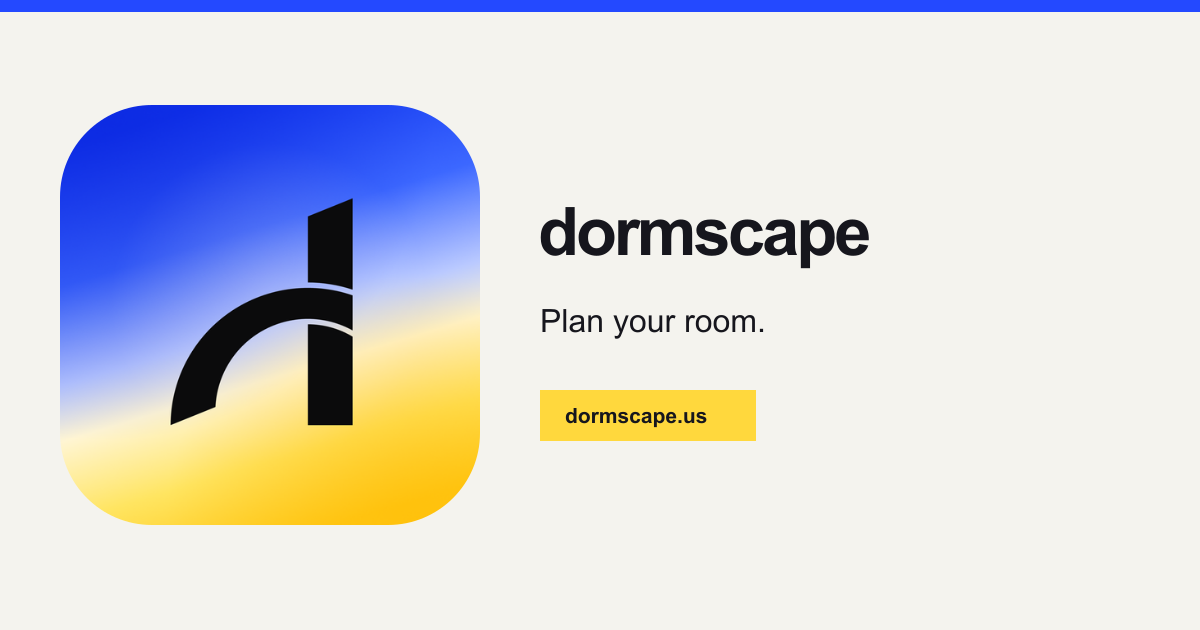
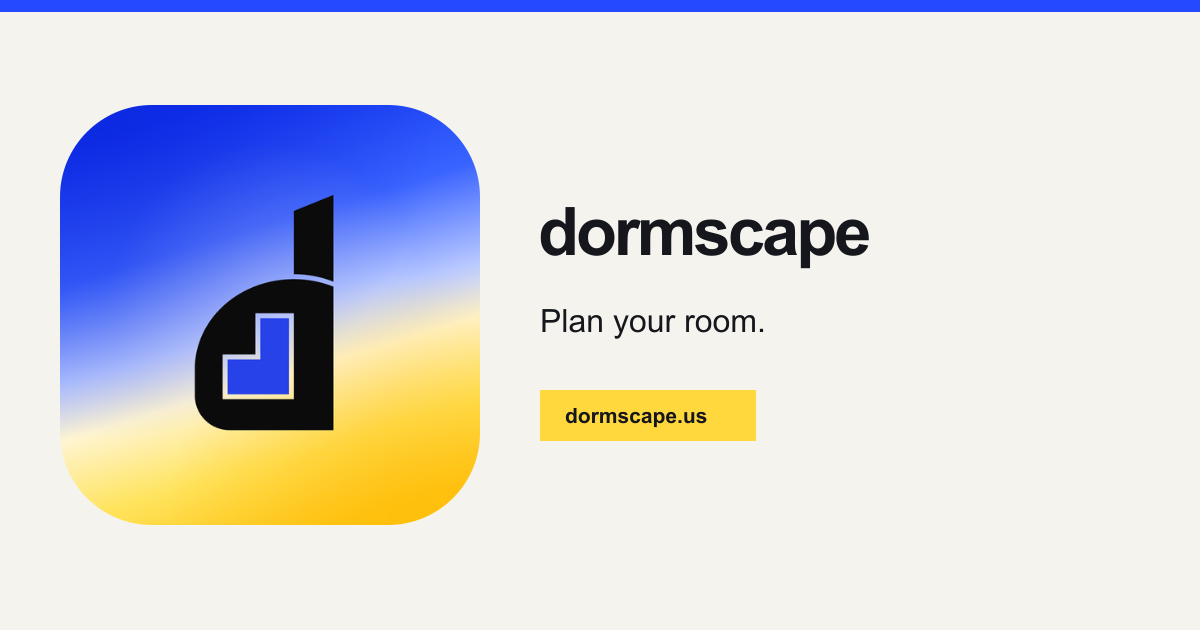
Brand: the room mark everywhere
New logo (the d with a blue room) replaces the door mark:
- favicon, app and Apple icons, PWA icons, share card, and the export mark
  rebuilt from public/brand/dormscape-source.png by build-brand-assets.mjs
- mono SVG marks traced from the artwork (within ~1% of its pixels)
- loader: the room fills from the floor up instead of the door swinging
- asset cache keys bumped to ?v=room-mark

Changed region(s): [[0.1233, 0.3016, 0.3083, 0.6937]]

diff --git a/components/site/BrandLoader.tsx b/components/site/BrandLoader.tsx
@@ -1,36 +1,33 @@
 import s from "./BrandLoader.module.css";
 
-// The mark's three pieces, each in its own box (design-handoff/v2/logo, Loader.dc.html).
-const ARCH = "M885 35.8A668.9 668.9 0 0 0 0 634.5L0 667L216.6 579A451.9 451.9 0 0 1 885 204.7Z";
-const TOP = "M216 0L0 87L0 407.8A696.6 696.6 0 0 1 216 442.5Z";
-const DOOR = "M0 -0.8L0 490L216 490L216 59A423.9 423.9 0 0 0 0 -0.8Z";
+// The room mark (public/brand/dormscape-mark-ink.svg): the "d" with an L-shaped
+// room cut out of its bowl, and the room itself in its own box so it can fill.
+const SHELL =
+  "M241 39L337 0V211.4A252 237 0 0 0 241 193.5Z" +
+  "M337 223.2A241 226 0 0 0 0 430.5V485.5A88 88 0 0 0 88 573.5H337ZM147 288.5H241V497.5H67V388.5H147Z";
+const ROOM = "M159.5 301H228.5V485H79.5V401H159.5Z";
 
-const piece = (cls: string, box: string, d: string) => (
-  <span className={cls}>
-    <svg viewBox={box} preserveAspectRatio="none">
-      <path d={d} />
-    </svg>
-  </span>
-);
-
-/** The mark alone, its door swinging (MOTION.md · Loader). */
+/** The mark alone, its room filling. */
 function Mark() {
   return (
     <span className={s.mark} aria-hidden="true">
-      {piece(`${s.pc} ${s.ghost}`, "0 0 886 668", ARCH)}
-      {piece(`${s.pc} ${s.arch}`, "0 0 886 668", ARCH)}
-      {piece(`${s.pc} ${s.top}`, "0 0 217 444", TOP)}
-      {piece(`${s.pc} ${s.door}`, "0 0 217 491", DOOR)}
+      <svg viewBox="0 0 337 573.5">
+        <path d={SHELL} fillRule="evenodd" />
+      </svg>
+      <span className={s.room}>
+        <svg viewBox="79.5 301 149 184" preserveAspectRatio="none">
+          <path d={ROOM} />
+        </svg>
+      </span>
     </span>
   );
 }
 
 /**
- * The sitewide loader, "the door swings": the mark is a door seen from above,
- * the way a floor plan draws it. The curve folds in toward its hinge at the
- * upright and swings back out on a 2.6 s loop, over a faint ghost of its path,
- * with a "Loading" caption whose dot brightens once per loop. Still in reduced
- * motion and with Motion off.
+ * The sitewide loader, "the room fills": the blue room inside the mark fills
+ * from the floor up and clears on a 2.6 s loop, with a "Loading" caption whose
+ * dot brightens once per loop. Still (the full mark) in reduced motion and with
+ * Motion off.
  *
  * Sizes: "route" (88 px, full-screen loading), "panel" (48 px) and "inline"
  * (18 px, inside a button beside its own text; decorative there). `label` is

diff --git a/components/site/BrandLoader.module.css b/components/site/BrandLoader.module.css
@@ -1,4 +1,4 @@
-/* components/site/BrandLoader: "the door swings" (design-handoff/v2 Loader.dc.html, MOTION.md) */
+/* components/site/BrandLoader: "the room fills" (MOTION.md loop timing) */
 .loader {
   --s: 88px;
   display: flex;
@@ -19,40 +19,25 @@
   vertical-align: middle;
 }
 
+/* Same height as the old door mark (--s × 1.245), in the room mark's 337 × 573.5 box. */
 .mark {
   position: relative;
   display: block;
   flex: none;
-  width: var(--s);
-  aspect-ratio: 888 / 1106;
+  width: calc(var(--s) * 0.7316);
+  height: calc(var(--s) * 1.245);
 }
-.pc { position: absolute; display: block; }
-.pc svg { display: block; width: 100%; height: 100%; overflow: visible; }
-.pc path { fill: currentColor; }
-/* Placed in the mark's own 888 × 1106 box */
-.arch, .ghost { left: 0; top: 39.421%; width: 99.775%; height: 60.398%; }
-.ghost { opacity: 0.13; }
-.top { left: 75.338%; top: 0; width: 24.437%; height: 40.145%; }
-.door { left: 75.338%; top: 55.515%; width: 24.437%; height: 44.394%; }
+.mark svg { display: block; width: 100%; height: 100%; }
+.mark path { fill: currentColor; }
+.room { position: absolute; left: 23.591%; top: 52.485%; width: 44.214%; height: 32.084%; animation: fill 2.6s cubic-bezier(0.65, 0, 0.35, 1) infinite; }
+.mark .room path { fill: var(--ds-blue, #2449ff); }
+.loader[data-tone="dark"] .room path { fill: var(--ds-blue-on-dark, #5b7cff); }
 
-/* The right end of the curve stays on its hinge at the upright; the left end
-   folds in toward it and swings back out, like a door closing and opening in
-   plan view. The fold is a conic mask whose sweep (--sw) runs 150° → 66° → 150°. */
-@property --sw {
-  syntax: "<angle>";
-  inherits: false;
-  initial-value: 150deg;
-}
-.arch {
-  --sw: 150deg;
-  -webkit-mask-image: conic-gradient(from calc(40deg - var(--sw)) at 70% 99.4%, #000 0deg var(--sw), transparent var(--sw));
-  mask-image: conic-gradient(from calc(40deg - var(--sw)) at 70% 99.4%, #000 0deg var(--sw), transparent var(--sw));
-  animation: fold 2.6s cubic-bezier(0.65, 0, 0.35, 1) infinite;
-}
-@keyframes fold {
-  0%, 14% { --sw: 150deg; }
-  46%, 58% { --sw: 66deg; }
-  88%, 100% { --sw: 150deg; }
+/* The room fills from the floor up, holds, then clears upward; both ends are empty. */
+@keyframes fill {
+  0%, 14% { clip-path: inset(100% 0 0 0); }
+  46%, 72% { clip-path: inset(0); }
+  100% { clip-path: inset(0 0 100% 0); }
 }
 
 .caption {

diff --git a/app/plan/draw/3d/page.tsx b/app/plan/draw/3d/page.tsx
@@ -8,5 +8,5 @@ import { SITE_URL } from "@/lib/seo";
 import s from "@/components/builder/Builder.module.css";
 const title="3D Room Builder: Draw Your Dorm Room";
 const description="Build your dorm room on a 3D grid. Draw walls, place a floor, add doors and windows, then furnish your custom room in 3D. Included with dormscape Pro.";
-export const metadata:Metadata={title,description,alternates:{canonical:"/plan/draw/3d"},openGraph:{title,description,url:"/plan/draw/3d",siteName:"dormscape",type:"website",images:[{url:"/og.png?v=door-mark",width:1200,height:630,alt:"dormscape 3D Room Builder"}]},twitter:{card:"summary_large_image",title,description,images:["/og.png?v=door-mark"]}};
+export const metadata:Metadata={title,description,alternates:{canonical:"/plan/draw/3d"},openGraph:{title,description,url:"/plan/draw/3d",siteName:"dormscape",type:"website",images:[{url:"/og.png?v=room-mark",width:1200,height:630,alt:"dormscape 3D Room Builder"}]},twitter:{card:"summary_large_image",title,description,images:["/og.png?v=room-mark"]}};
 export default function Draw3DPage(){return <PageShell navOverlay navTone="dark" className={s.page}><BuilderEntry><section className={s.faq} aria-labelledby="builder-faq"><div className="ds-wrap"><p className={s.darkEyebrow}>Before you build</p><h2 id="builder-faq" className={s.faqTitle}>A few useful answers.</h2><dl className={s.faqGrid}>{BUILDER_FAQS.map(({q,a},i)=><div key={q} className={s.faqCard} data-reveal="" style={{"--i":i%2} as React.CSSProperties}><dt>{q}</dt><dd>{a}</dd></div>)}</dl><p className={s.fine}>Get the walkthrough: <Link href="/blog/build-a-dorm-room-in-3d">Build your first room in 3D</Link>. Compare <Link href="/pricing#pro">Pro features and pricing</Link>.</p></div></section></BuilderEntry><JsonLd data={{"@context":"https://schema.org","@type":"FAQPage",mainEntity:BUILDER_FAQS.map(({q,a})=>({"@type":"Question",name:q,acceptedAnswer:{"@type":"Answer",text:a}}))}}/><JsonLd data={{"@context":"https://schema.org","@type":"BreadcrumbList",itemListElement:[{ "@type":"ListItem",position:1,name:"dormscape",item:SITE_URL},{"@type":"ListItem",position:2,name:"Draw your room",item:SITE_URL+"/plan/draw"},{"@type":"ListItem",position:3,name:"3D Room Builder",item:SITE_URL+"/plan/draw/3d"}]}}/></PageShell>;}

diff --git a/lib/seo.ts b/lib/seo.ts
@@ -26,7 +26,7 @@ export function absoluteUrl(path = "/"): string {
 export const RSS_FEED = { "application/rss+xml": "/blog/rss.xml" };
 
 const OG_IMAGE = {
-  url: "/og.png?v=door-mark",
+  url: "/og.png?v=room-mark",
   width: 1200,
   height: 630,
   alt: "dormscape, the free dorm room planner",
@@ -142,7 +142,7 @@ const organization = {
   ...(SOCIAL_PROFILES.length ? { sameAs: SOCIAL_PROFILES } : {}),
   logo: {
     "@type": "ImageObject",
-    url: `${SITE_URL}/icons/icon-512.png?v=door-mark`,
+    url: `${SITE_URL}/icons/icon-512.png?v=room-mark`,
     width: 512,
     height: 512,
   },

diff --git a/public/experience/studio-scene.js b/public/experience/studio-scene.js
@@ -56,7 +56,7 @@ function shadowMesh(root,uniforms){
 }
 
 export function createStudioScene(container, options) {
-  const brandMark=new Image();brandMark.src="/brand/dormscape-mark.png?v=folded-room";
+  const brandMark=new Image();brandMark.src="/brand/dormscape-mark.png?v=room-mark";
   const renderer=new T.WebGLRenderer({antialias:true,powerPreference:"high-performance"});
   // The pixel ratio starts at the screen's (capped). While the camera or a piece moves slowly it steps down, so weak GPUs stay
   // smooth; when everything stops, the still frame goes back to the full ratio.

diff --git a/app/blog/[slug]/page.tsx b/app/blog/[slug]/page.tsx
@@ -45,7 +45,7 @@ export async function generateMetadata(props: {
       authors: ["dormscape"],
       images: [
         {
-          url: "/og.png?v=door-mark",
+          url: "/og.png?v=room-mark",
           width: 1200,
           height: 630,
           alt: "dormscape, the free AI dorm room planner",
@@ -56,7 +56,7 @@ export async function generateMetadata(props: {
       card: "summary_large_image",
       title: post.metaTitle ?? post.title,
       description: post.description,
-      images: ["/og.png?v=door-mark"],
+      images: ["/og.png?v=room-mark"],
     },
   };
 }

diff --git a/app/layout.tsx b/app/layout.tsx
@@ -60,7 +60,7 @@ export const metadata: Metadata = {
     url: "/",
     images: [
       {
-        url: "/og.png?v=door-mark",
+        url: "/og.png?v=room-mark",
         width: 1200,
         height: 630,
         alt: "dormscape, the free AI dorm room planner",
@@ -71,7 +71,7 @@ export const metadata: Metadata = {
     card: "summary_large_image",
     title: "dormscape: your dorm room, planned before move-in day",
     description: DESCRIPTION,
-    images: ["/og.png?v=door-mark"],
+    images: ["/og.png?v=room-mark"],
   },
 };
 

diff --git a/app/manifest.ts b/app/manifest.ts
@@ -11,8 +11,8 @@ export default function manifest(): MetadataRoute.Manifest {
     background_color: "#fafaf8",
     theme_color: "#fafaf8",
     icons: [
-      { src: "/icons/icon-192.png?v=door-mark", sizes: "192x192", type: "image/png" },
-      { src: "/icons/icon-512.png?v=door-mark", sizes: "512x512", type: "image/png" },
+      { src: "/icons/icon-192.png?v=room-mark", sizes: "192x192", type: "image/png" },
+      { src: "/icons/icon-512.png?v=room-mark", sizes: "512x512", type: "image/png" },
     ],
   };
 }

diff --git a/app/blog/page.tsx b/app/blog/page.tsx
@@ -21,7 +21,7 @@ export const metadata: Metadata = {
     url: "/blog",
     images: [
       {
-        url: "/og.png?v=door-mark",
+        url: "/og.png?v=room-mark",
         width: 1200,
         height: 630,
         alt: "dormscape, the free AI dorm room planner",
@@ -32,7 +32,7 @@ export const metadata: Metadata = {
     card: "summary_large_image",
     title: "The dormscape Blog",
     description: DESCRIPTION,
-    images: ["/og.png?v=door-mark"],
+    images: ["/og.png?v=room-mark"],
   },
 };
 

diff --git a/app/pricing/page.tsx b/app/pricing/page.tsx
@@ -53,7 +53,7 @@ export const metadata: Metadata = {
     url: "/pricing",
     images: [
       {
-        url: "/og.png?v=door-mark",
+        url: "/og.png?v=room-mark",
         width: 1200,
         height: 630,
         alt: "dormscape, the free AI dorm room planner",
@@ -64,7 +64,7 @@ export const metadata: Metadata = {
     card: "summary_large_image",
     title: "Pricing",
     description: DESCRIPTION,
-    images: ["/og.png?v=door-mark"],
+    images: ["/og.png?v=room-mark"],
   },
 };
 

diff --git a/app/faq/page.tsx b/app/faq/page.tsx
@@ -27,7 +27,7 @@ export const metadata: Metadata = {
     url: "/faq",
     images: [
       {
-        url: "/og.png?v=door-mark",
+        url: "/og.png?v=room-mark",
         width: 1200,
         height: 630,
         alt: "dormscape, the free AI dorm room planner",
@@ -38,7 +38,7 @@ export const metadata: Metadata = {
     card: "summary_large_image",
     title: "Dorm FAQ",
     description: DESCRIPTION,
-    images: ["/og.png?v=door-mark"],
+    images: ["/og.png?v=room-mark"],
   },
 };
 

diff --git a/lib/blog.ts b/lib/blog.ts
@@ -67,12 +67,12 @@ export function articleJsonLd(post: BlogPost) {
       ...org,
       logo: {
         "@type": "ImageObject",
-        url: `${BLOG_BASE}/icons/icon-512.png?v=door-mark`,
+        url: `${BLOG_BASE}/icons/icon-512.png?v=room-mark`,
         width: 512,
         height: 512,
       },
     },
-    image: `${BLOG_BASE}/og.png?v=door-mark`,
+    image: `${BLOG_BASE}/og.png?v=room-mark`,
     mainEntityOfPage: { "@type": "WebPage", "@id": url },
     url,
   };
